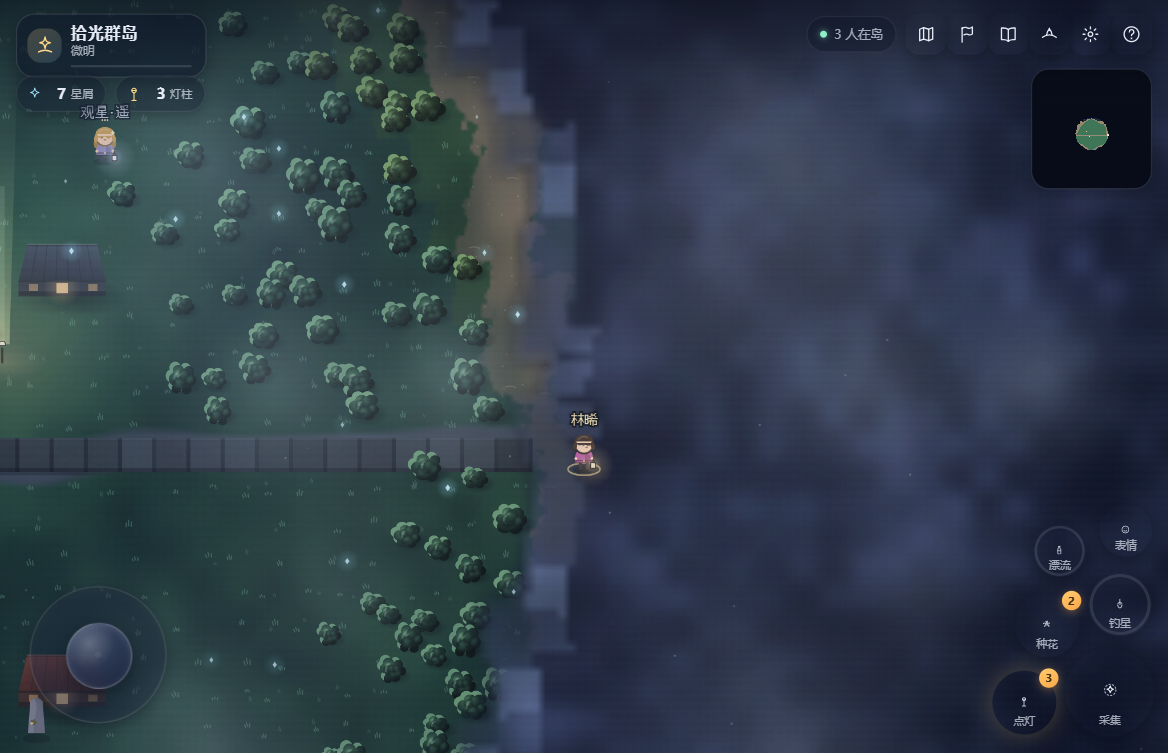
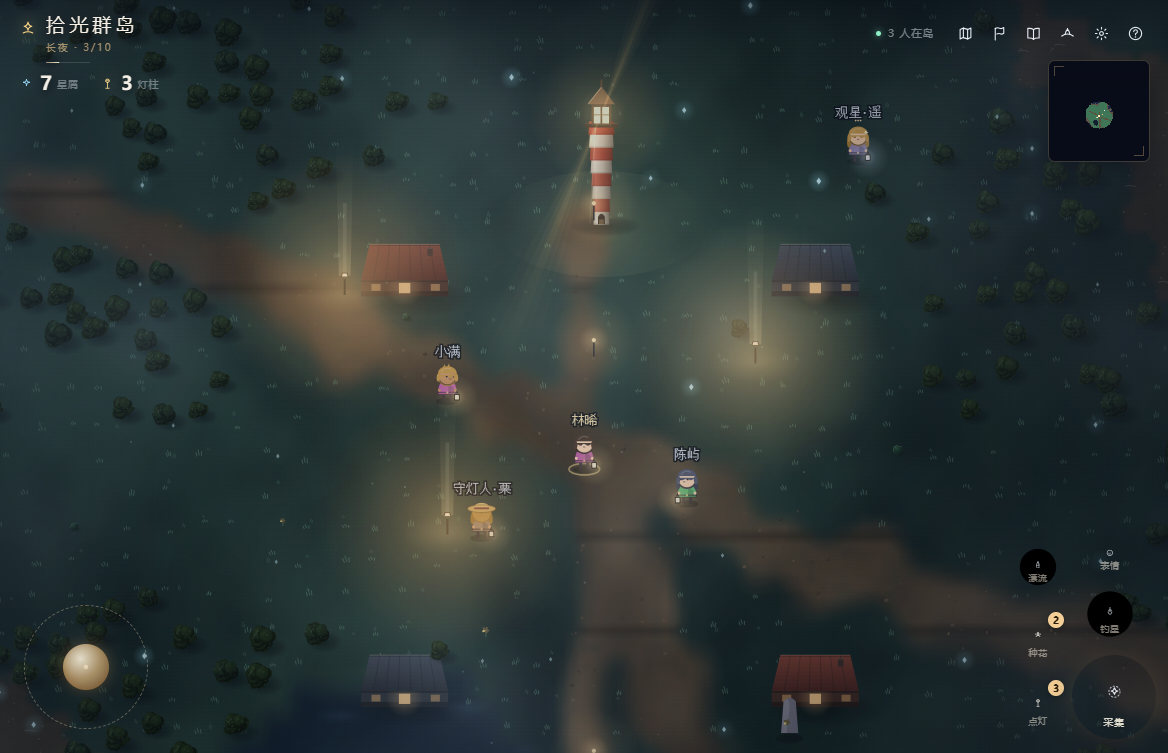
feat(shiguang): 4.0.0 发布 —— 灯火玩法上线，线路收窄，缩略图重拍
- 路面半宽 1.15→0.92 格、路缘模糊 3→2 格：原来 2.3 格路面加 0.75 格模糊
  实际铺开接近 3.8 格，是一条 110px 宽的褐色宽带，读起来是泥浆不是路
- 土径整体提亮一档（meadow 92→106），让它比草地亮、比灯火暗
- 缩略图重拍：岛名横幅/对话框/提示条在 shot 前清掉 —— 横幅正好压在灯塔上
- manifest 4.0.0 + CHANGELOG 追记 4.0.0（含树五次试错的结论）
- index.json 重生成

diff --git a/apps/shiguang/frontend/entry.js b/apps/shiguang/frontend/entry.js
@@ -190,13 +190,13 @@
   // sandLit/sandShd 沙地，pathLit/pathShd 土径。
   var BIOME_PALETTES = {
     meadow: { lit: [40, 66, 60],   shd: [10, 23, 26],    stLit: [80, 90, 106],   stShd: [26, 30, 40],
-              sandLit: [74, 68, 56],   sandShd: [34, 31, 27],   pathLit: [58, 46, 36],  pathShd: [24, 19, 15] },
+              sandLit: [74, 68, 56],   sandShd: [34, 31, 27],   pathLit: [106, 90, 70], pathShd: [42, 34, 26] },
     mist:   { lit: [42, 68, 72],   shd: [11, 25, 30],    stLit: [78, 92, 108],   stShd: [24, 30, 42],
-              sandLit: [70, 70, 66],   sandShd: [32, 33, 31],   pathLit: [54, 48, 42],  pathShd: [22, 20, 17] },
+              sandLit: [70, 70, 66],   sandShd: [32, 33, 31],   pathLit: [100, 92, 80], pathShd: [40, 35, 30] },
     stone:  { lit: [82, 88, 102],  shd: [26, 30, 40],    stLit: [104, 112, 130], stShd: [36, 40, 54],
-              sandLit: [84, 80, 72],   sandShd: [38, 36, 33],   pathLit: [64, 54, 44],  pathShd: [27, 23, 18] },
+              sandLit: [84, 80, 72],   sandShd: [38, 36, 33],   pathLit: [114, 98, 80], pathShd: [46, 39, 31] },
     beach:  { lit: [96, 88, 70],   shd: [34, 32, 28],    stLit: [90, 96, 110],   stShd: [32, 36, 46],
-              sandLit: [104, 94, 74],  sandShd: [44, 40, 32],   pathLit: [70, 56, 42],  pathShd: [30, 24, 18] },
+              sandLit: [104, 94, 74],  sandShd: [44, 40, 32],   pathLit: [120, 102, 78], pathShd: [49, 41, 31] },
     marsh:  { lit: [32, 54, 48],   shd: [8, 19, 21],     stLit: [70, 80, 92],    stShd: [24, 28, 36],
               sandLit: [62, 60, 50],   sandShd: [28, 28, 24],   pathLit: [50, 42, 33],  pathShd: [20, 17, 14] },
     flower: { lit: [50, 70, 48],   shd: [13, 25, 23],    stLit: [88, 94, 108],   stShd: [30, 34, 44],
@@ -1381,7 +1381,7 @@
       // 路要「一点点」软边。
       // 硬 0/1 的边界是逐格直角台阶 —— 一条「锯齿公路」，比直边更假。
       // 半径 3（sub=4 时约 0.75 格）只影响交界带，真正做出毛边的是取色阶段的噪声侵蚀。
-      maskPath = boxBlur(path, M, 3);
+      maskPath = boxBlur(path, M, 2);
       maskLake = boxBlur(lake, M, 1);
     }
 

diff --git a/apps/shiguang/CHANGELOG.md b/apps/shiguang/CHANGELOG.md
@@ -1,5 +1,62 @@
 # 拾光群岛 · 更新记录
 
+## 4.0.0 · 灯火
+
+3.1.0 的问题是：这个岛「有内容，但没有压力」。
+走到星屑上按一下 +1，再走到空地上按一下立灯 —— 全程零决策、零风险、零节奏。
+你说「玩起来没意思」，对的是：它是一张会动的画，不是一个游戏。
+
+这一版把「你手里还有多少火」变成唯一的资源，同时让它接管三件事：
+血量、视野、货币。世界的样子会跟着你的火一起变。
+
+### 灯火（新 · 核心）
+- **火会自己烧**：走路 0.95/秒、站着 0.30/秒。站着也在暗，挂机不等于安全。
+- **视野就是火**：满火能看 10 格，火只剩一成时只能看 4 格。
+  四周压黑不是后期叠的一层暗角，是「你还能看多远」直接画在屏幕上。
+- **灯柱是唯一补给**：站在点亮过的灯 6 格内回 4.2/秒。
+  ⚠ **别人的灯一样管用** —— 多人关系不是靠聊天建立的，是靠「谁在这里点过灯」。
+- **点灯要烧自己的火**（-22）：你把自己的命换成一块永久的安全区。
+- **雾灵**：火低于 34% 开始出现，最多 4 只，1.15~1.5 格/秒朝你漂。
+  玩家 3.8 格/秒，**永远跑得掉** —— 它逼你走，不逼死你。碰到一次偷 9 点火。
+- **火灭**：全黑昏迷 3 秒，醒来原地只剩 45 火。不传送、不扣星屑：
+  代价是时间和位置，不是资产。
+
+### 主线第一次被看见
+- 顶栏「长夜」改成「长夜 · 3/10」。`/terrain` 从 3.0 起就一直在返回
+  `stages`，前端从来没接住 —— 于是「全班一起把灯点到 100 根、把天光推到
+  拾光之海」这条主线，在界面上一直是隐形的。
+- 点灯提示改成「离「晨光初现」还差 7 根」，差 3 根以内换成另一句。
+
+### 世界重做（地图 / 配色 / UI）
+- **8 座正圆岛 → 复合岛形**：每岛 3~4 个偏移圆瓣，取所有瓣中最深的归一化深度。
+  地峡、内湾、半岛自己长出来；沙环按深度切，半岛尖端窄、宽阔处宽。
+  原先每座岛的半径只差 ±12%，高空看是八个圆。
+- **内陆湖**：启明岛与萤火泽各一处（`LAKE`，不可走、不可点灯）。
+- **村道**：启明岛原来是 44 格正交十字（80,66→80,110 / 58,88→102,88），
+  俯视是一条一直通到画外的宽带 —— 「城镇骨架」没做出来，先做出来一条跑道。
+  现在是主街 + 四条斜支路，路面 1.84 格。
+- **沙岸与土径分开成两套色**：上一版 sand 通道借用 `pathLit`（暖米色），
+  而沙环占陆地 27% —— 全画面面积最大的暖色是「没人点亮的沙子」，
+  灯反而比不过它。现在沙是冷褐、土径是暖褐，暖色只属于光。
+- **UI 去面板化**：顶部 HUD / 小地图 / 摇杆 / 动作簇 / 对话卡全部拆掉
+  深色玻璃卡片 + 圆角 + 阴影（那是 2020 年移动端模板语言，贴在手绘夜空上
+  属于另一个世界）。改用字距（0.18~0.22em）+ 字号层级立住。
+  动作键从六个等大彩圆 → 一个主键 + 两列圆心对齐。
+- **灯塔**：比例 1:1.65 → 1:3.9。之前画出来是水塔。补拱门漏光、护栏平台、
+  竖窗框、锥顶顶针，光束改橙黄三层扇形（一层三角形无论怎么调都是「一块均匀的雾」）。
+
+### 树：五次试错的记录
+1. 6 个圆瓣 → 花椰菜
+2. 11 个小瓣 → 葡萄串
+3. 5 个等分瓣 → 梅花
+4. 正弦叠加大振幅 → 海星；小振幅 → 圆盘
+5. **3 个不对称叶扇（每个 = 3 个随机旋转的椭圆）+ 每团自带小块亮面** ✅
+
+结论写在这里，免得下次再走一遍：
+- **用几何圆拼不出有机形状** —— 交角只有固定几档，眼睛三秒读出「是拼的」。
+- **贴着轮廓的连续亮边 = 湿石头高光的固定读法**。叶子给的是断开的亮斑。
+- **树的色相必须和草地的色相不同**，不能只是更暗 —— 更暗的草地就是石头。
+
 ## 3.1.0 · 岛上有人
 
 3.0.0 的岛上住着四个人，但他们只是「会走路的随机广播器」：从公共台词池里抽一句、
